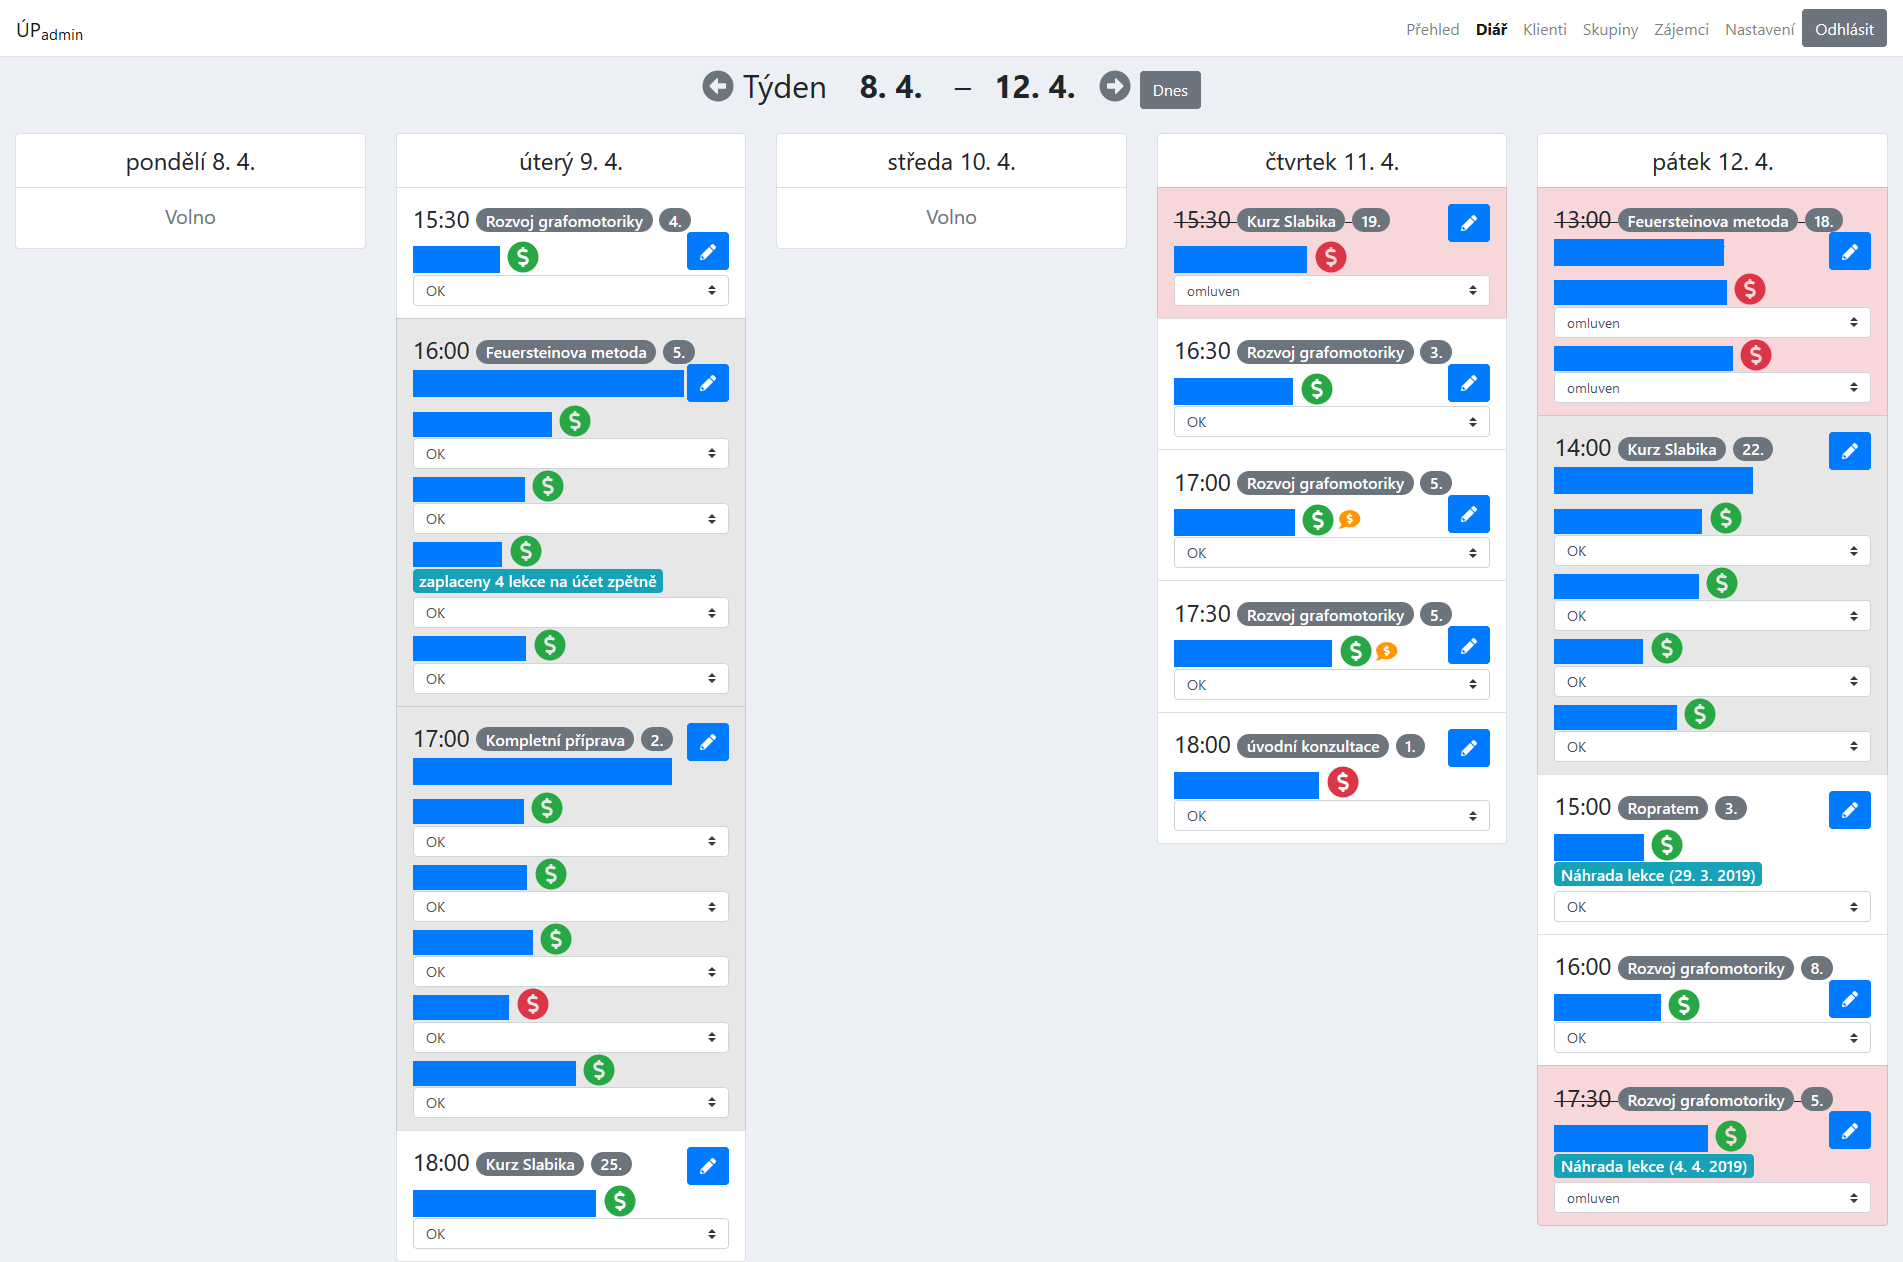
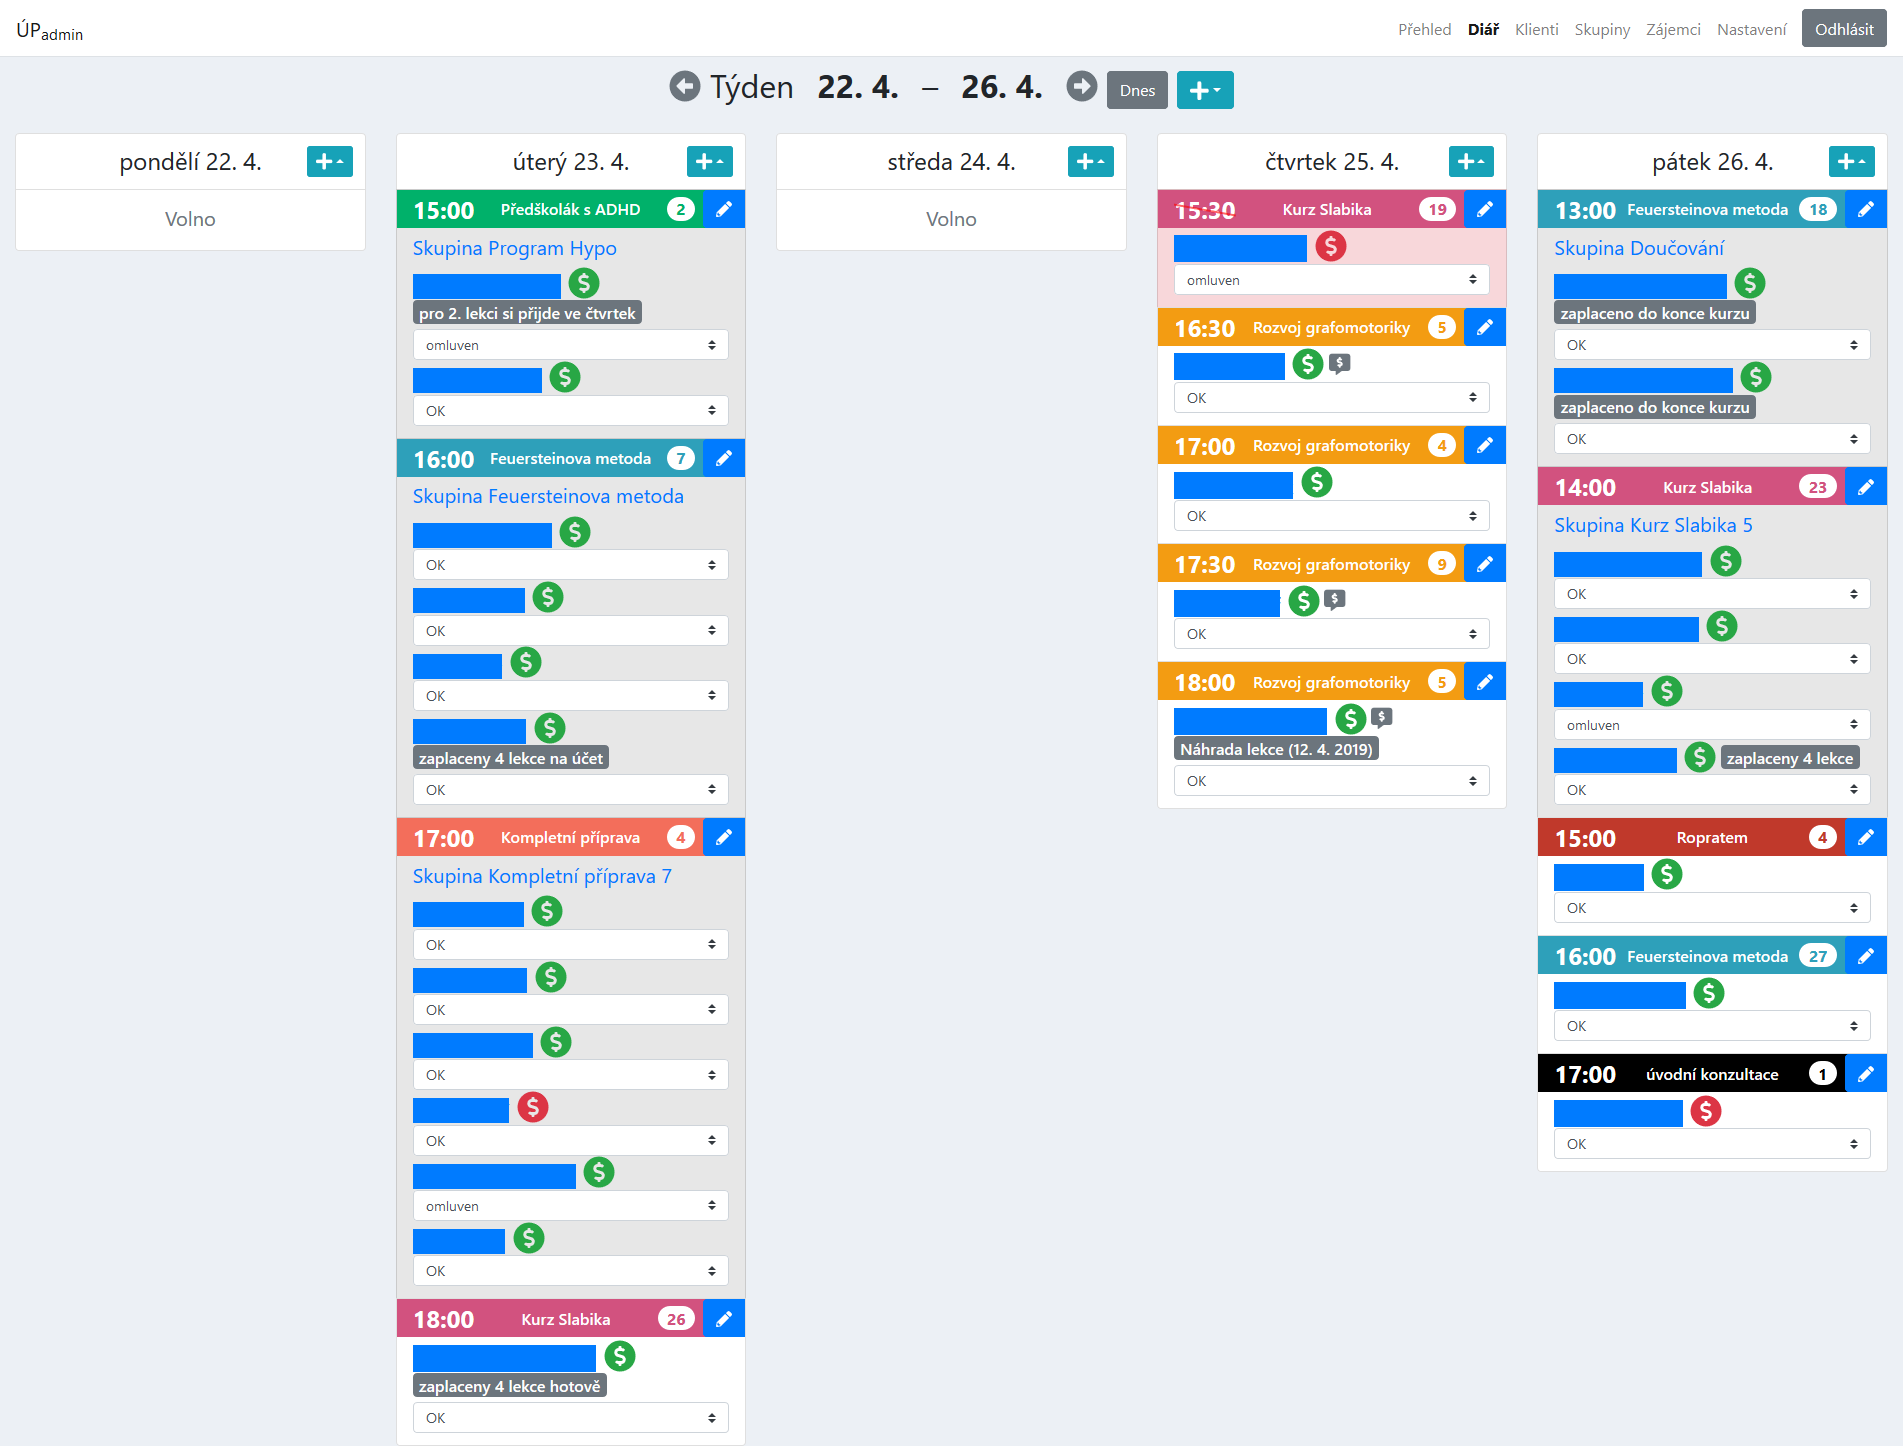
[docs] aktualizace a doplneni screenshotu
[skip ci]

diff --git a/README.md b/README.md
@@ -230,10 +230,14 @@ $ python manage.py behave --stage=api --tags=clients
 Aplikace obsahuje rozsáhlé API a UI testy – vizte [podrobné informace o testech a možnostech spouštění](tests/).
 
 ## Screenshoty z aplikace
-> **Poznámka:** modrými obdelníky jsou skryta jména klientů.
+> **Poznámka:** obdelníky (převážně modré) skrývají jména klientů.
 
 ### Diář
 [![screenshot z diáře](docs/screenshots/diary.png)](https://raw.githubusercontent.com/rodlukas/UP-admin/master/docs/screenshots/diary.png)
+### Karta klienta
+[![screenshot z karty klienta](docs/screenshots/card.png)](https://raw.githubusercontent.com/rodlukas/UP-admin/master/docs/screenshots/diary.png)
+### Zájemci o kurzy
+[![screenshot ze zájemců o kurzy](docs/screenshots/applications.png)](https://raw.githubusercontent.com/rodlukas/UP-admin/master/docs/screenshots/diary.png)
 
 ## Licence
 Licencováno pod [MIT](LICENSE).
